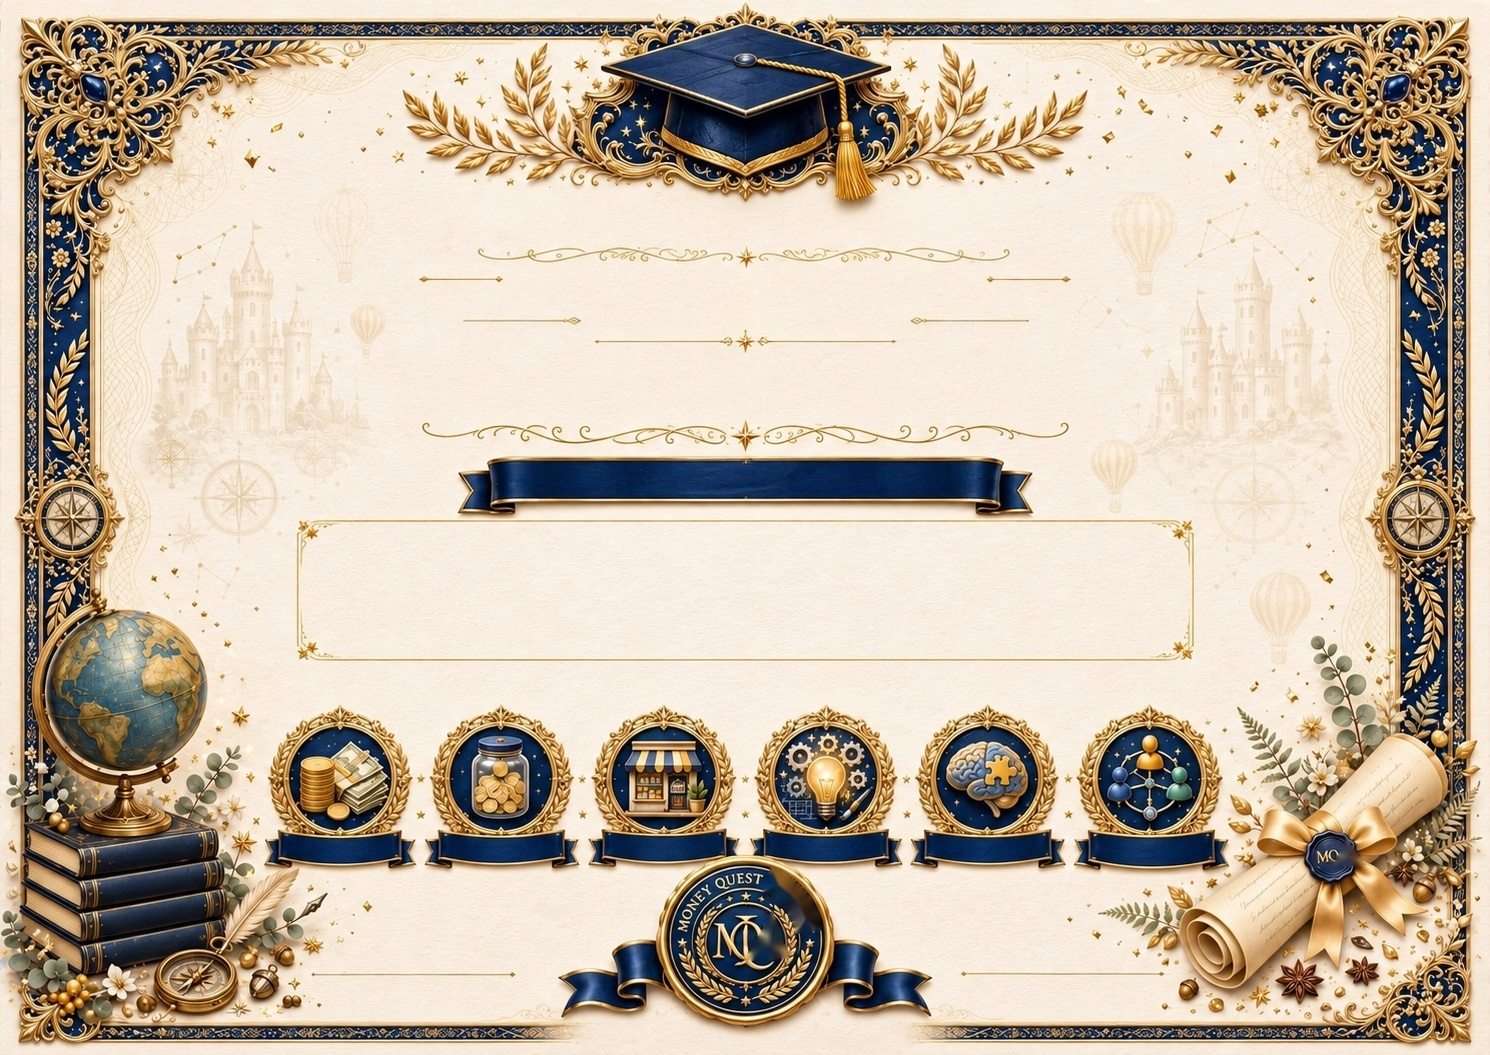
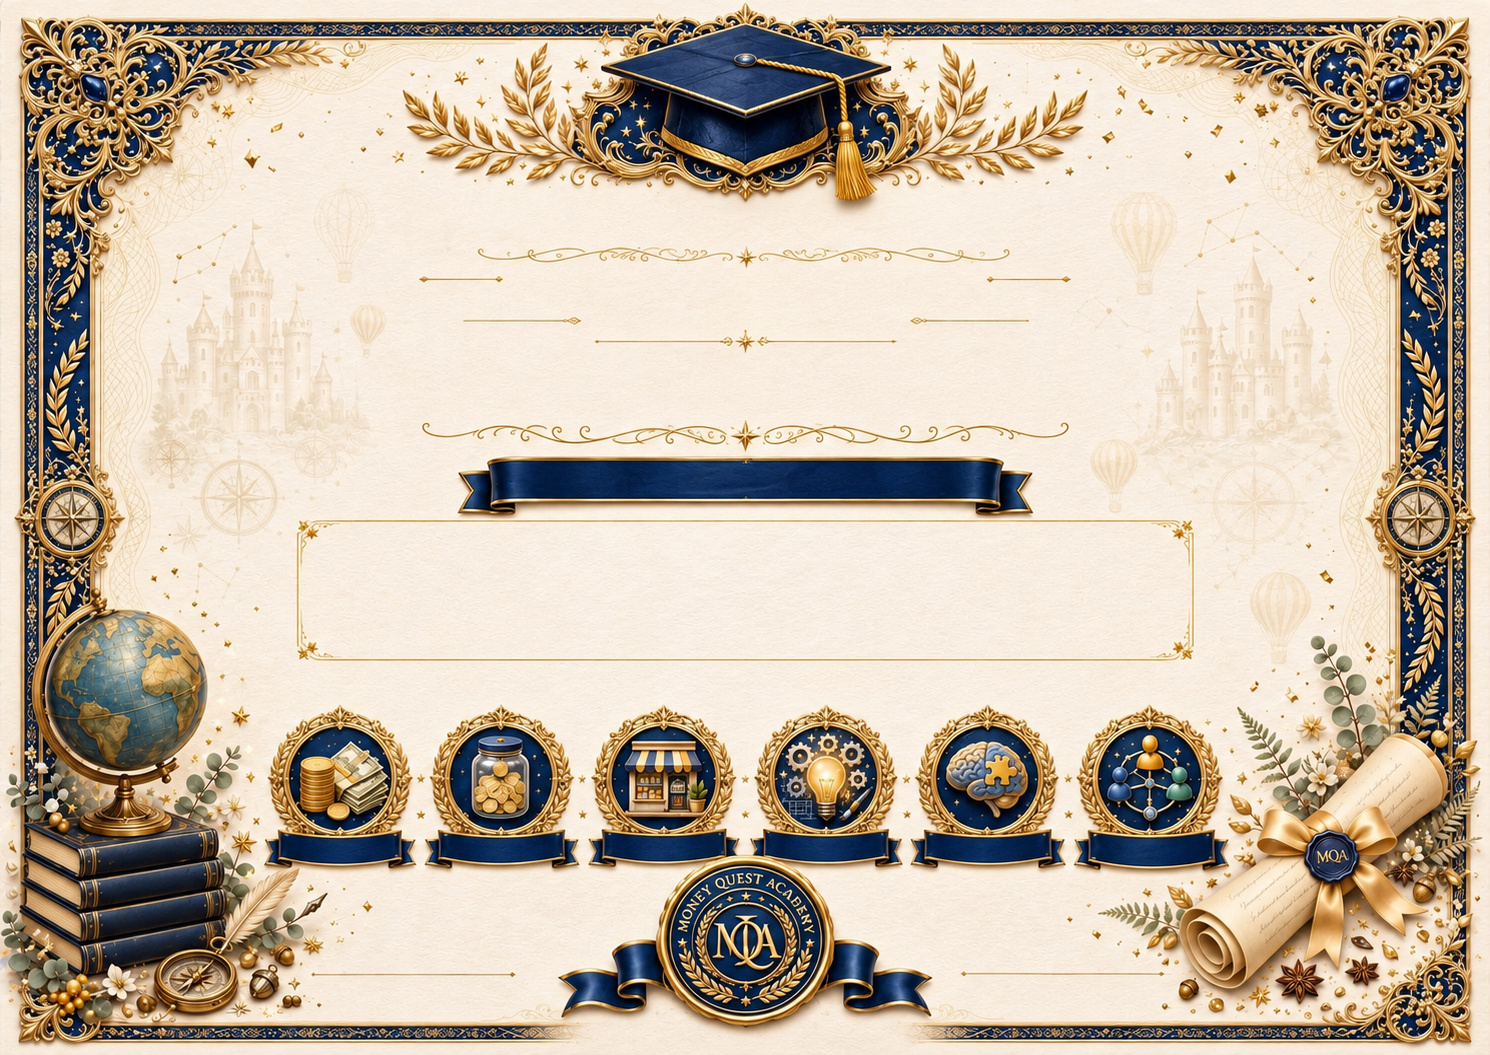
Restore original Money Quest Academy certificate branding
Reverts the 2026-11-17 certificate branding change by owner decision.
Restores the original background artwork (seal ring text, MQA
monogram, scroll wax seal) directly from main's git history via
checkout, with no inpainting or image reconstruction, and reverts
the corresponding "MONEY QUEST ACADEMY" text in the PDF header, PDF
title, and the on-site certificate reward banner.

The PR #87 competency text-fitting fix (fitLines/wordWrap and their
regression tests) is untouched. All other "Money Quest" branding
outside the certificate (shop, Parent Toolkit, Activity Pack, nav)
is left as-is.

Claude-Session: https://claude.ai/code/session_01BwKPyHty4avhdUTgLNUmgw

diff --git a/src/lib/certificates/pdf.ts b/src/lib/certificates/pdf.ts
@@ -59,7 +59,7 @@ export async function generateCertificatePdf(band: AgeBand, locale: Locale, time
     doc.embedFont(serifBytes, {subset: true}), doc.embedFont(sansBytes, {subset: true}),
     doc.embedFont(signatureBytes), doc.embedJpg(art),
   ]);
-  doc.setTitle(`MONEY QUEST · ${certificateCopy[locale][band]}`);
+  doc.setTitle(`MONEY QUEST ACADEMY · ${certificateCopy[locale][band]}`);
   doc.setAuthor("Money Quest Education");
   doc.setSubject(certificateCopy[locale].title);
   doc.setLanguage(REGIONAL_LOCALES[locale]);
@@ -81,7 +81,7 @@ export async function generateCertificatePdf(band: AgeBand, locale: Locale, time
     best.result.forEach((line,i)=>text(line,cx,y+i*best.actual*1.2,width,best.actual,font,color));
   }
   const copy = certificateCopy[locale];
-  text("MONEY QUEST",768,251,1000,57);
+  text("MONEY QUEST ACADEMY",768,251,1000,57);
   text(copy.programme,768,308,1030,18,serif,gold);
   text(copy.title.toLocaleUpperCase(REGIONAL_LOCALES[locale]),768,414,1080,57,serif,navy);
   text(`${locale === "en" ? `${copy[band]} ${copy.level}` : `${copy.level}: ${copy[band]}`} (${ages[band]})`,768,503,500,27,serif,cream);

diff --git a/src/components/AcademyCertificateReward.tsx b/src/components/AcademyCertificateReward.tsx
@@ -41,7 +41,7 @@ export function AcademyCertificateReward() {
   return <section aria-label={copy.ready} className="mx-auto mt-8 max-w-3xl rounded-2xl border-2 border-amber-600 bg-white p-5 text-center text-slate-900">
     <h2 className="font-display text-2xl font-bold">{copy.congratulations}</h2>
     {earned.map(earnedBand=><div key={earnedBand} className="mt-4">
-      <h3 className="font-bold">Money Quest · {copy[earnedBand]}</h3>
+      <h3 className="font-bold">Money Quest Academy · {copy[earnedBand]}</h3>
       <p className="mt-2">{copy.ready}</p>
       <CertificateDownload band={earnedBand} locale={locale} date={state.threeQuestCertificateDates[earnedBand]} />
       <Link className="inline-flex min-h-12 items-center underline" href={`/academy-certificate?level=${earnedBand}`}>{copy.view}</Link>

diff --git a/scripts/test-academy-certificates.ts b/scripts/test-academy-certificates.ts
@@ -70,7 +70,7 @@ async function main(){
     assert.equal(pdf.getPageCount(),1);
     assert(Math.abs(pdf.getPage(0).getWidth()-841.89)<0.01);
     assert(Math.abs(pdf.getPage(0).getHeight()-595.28)<0.01);
-    assert.equal(pdf.getTitle(),`MONEY QUEST · ${copy[band]}`);
+    assert.equal(pdf.getTitle(),`MONEY QUEST ACADEMY · ${copy[band]}`);
     assert.equal((pdf.catalog.get(PDFName.of("Lang")) as PDFString).decodeText(),REGIONAL_LOCALES[locale]);
     if(output)writeFileSync(`${output}/${band}-${locale}.pdf`,bytes);
   }

diff --git a/docs/academy-certificates.md b/docs/academy-certificates.md
@@ -8,9 +8,9 @@ The three supplied Meta AI designs are the edit targets for the cleaned Explorer
 
 Browser-side pdf-lib/fontkit creates a genuine application/pdf Blob and downloads it through a native download link. No print dialog, account, payment, child name input or progress network request. Only public static assets are fetched. PDF is A4 landscape with the complete artwork inset 5 mm to accommodate home printers. The decorative blank name box remains entirely empty. The automatic institution signature is the text Money Quest. It does not represent a person's signature or outside accreditation. Fonts and PDF chunks are included in the existing offline manifest.
 
-English, Romanian, Spanish, French, German, Italian, Portuguese, Dutch and Polish use the existing next-intl selection. The copy includes title, localized level, achievement message, all six competencies, labels, buttons, error/loading/locked/legacy messages and programme attribution. Fixed branding is MONEY QUEST and Money Quest Education.
+English, Romanian, Spanish, French, German, Italian, Portuguese, Dutch and Polish use the existing next-intl selection. The copy includes title, localized level, achievement message, all six competencies, labels, buttons, error/loading/locked/legacy messages and programme attribution. Fixed branding is MONEY QUEST ACADEMY and Money Quest Education.
 
-**2026-11-17 update:** the public brand dropped "Academy." The vector header/PDF title text changed from "MONEY QUEST ACADEMY" to "MONEY QUEST" (src/lib/certificates/pdf.ts). The three background JPGs' baked-in seal text was also edited locally with OpenCV inpainting (scripts/fix-certificate-seal.py) to remove the word "ACADEMY" from the seal's curved ring text, leaving "MONEY QUEST" — the seal's separate "MQA" monogram (an abbreviation, not spelled-out text) was intentionally left untouched. Every other artwork element (colours, borders, wreath, monogram, illustrations) is unchanged.
+**2026-11-17 branding history (now reverted):** the public brand briefly dropped "Academy" everywhere, including the certificates. The vector header/PDF title text was changed from "MONEY QUEST ACADEMY" to "MONEY QUEST" (src/lib/certificates/pdf.ts), and the three background JPGs' baked-in seal text was edited locally with OpenCV inpainting (scripts/fix-certificate-seal.py, then scripts/fix-certificate-seal-monogram.py in a follow-up pass) to remove "ACADEMY" from the seal's ring text, central monogram and a second wax-seal graphic on the scroll illustration. **2026-11-18: reverted by explicit owner decision.** The certificate's "Money Quest Academy" branding (vector header/PDF title, the seal's original ring text, "MQA" monogram and wax seal, and the on-site reward banner) is intentional and restored exactly as it was, by checking out the original background JPGs from `main` (unmodified since before any of this branding work) and reverting the corresponding text in `src/lib/certificates/pdf.ts` / `src/components/AcademyCertificateReward.tsx`. The site's own branding elsewhere (navigation, shop, Activity Pack, Parent Toolkit) stays "Money Quest," not "Money Quest Academy" - this exception is scoped to the certificate only. The two seal-editing scripts above are no longer used and are kept only as a historical record of that reverted attempt; do not run them. The competency text-fitting fix below (`fitLines`) is unrelated to branding and was kept throughout.
 
 ## Completion and dates
 
